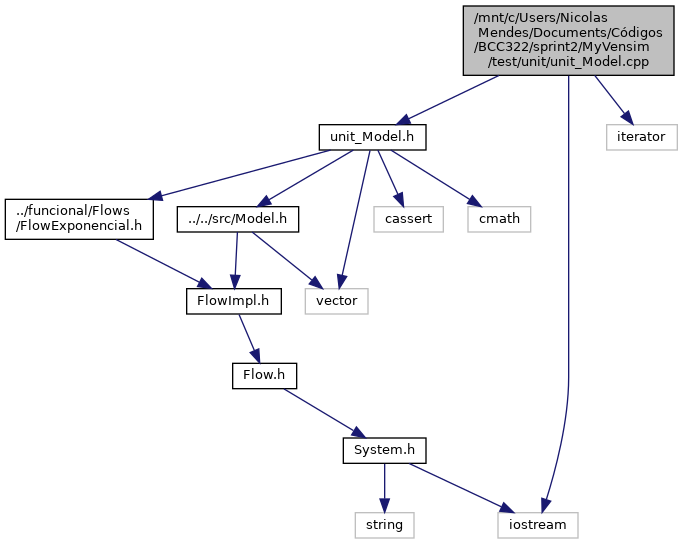
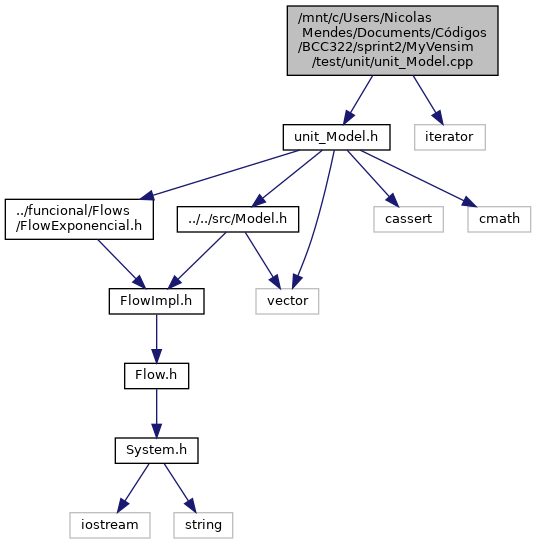
sprint 5 - fix unit_model .h

diff --git a/sprint2/MyVensim/doxygen/html/unit__Model_8h_source.html b/sprint2/MyVensim/doxygen/html/unit__Model_8h_source.html
@@ -102,30 +102,30 @@ $(function() {
 <div class="line"><a name="l00144"></a><span class="lineno">  144</span>&#160; </div>
 <div class="line"><a name="l00148"></a><span class="lineno">  148</span>&#160;<span class="keywordtype">void</span> <a class="code" href="unit__Model_8h.html#a2114674c26fbc871eec94221b3252a39">run_unit_test_Model</a>();</div>
 <div class="line"><a name="l00149"></a><span class="lineno">  149</span>&#160; </div>
-<div class="ttc" id="aunit__Model_8h_html_a0e9ac246464949279864e6af420214c8"><div class="ttname"><a href="unit__Model_8h.html#a0e9ac246464949279864e6af420214c8">unit_Model_beginSystems</a></div><div class="ttdeci">void unit_Model_beginSystems()</div><div class="ttdoc">Unit test for the beginSystems function of ModelImpl.</div><div class="ttdef"><b>Definition:</b> unit_Model.cpp:137</div></div>
-<div class="ttc" id="aunit__Model_8h_html_a1524ea94351f1b22d8f7b78e29cd35e5"><div class="ttname"><a href="unit__Model_8h.html#a1524ea94351f1b22d8f7b78e29cd35e5">unit_Model_parameter_constructor</a></div><div class="ttdeci">void unit_Model_parameter_constructor()</div><div class="ttdoc">Unit test for the parameterized constructor of ModelImpl.</div><div class="ttdef"><b>Definition:</b> unit_Model.cpp:17</div></div>
-<div class="ttc" id="aunit__Model_8h_html_a198776a1fac9ea701215f46608b9cc0e"><div class="ttname"><a href="unit__Model_8h.html#a198776a1fac9ea701215f46608b9cc0e">unit_Model_endModels</a></div><div class="ttdeci">void unit_Model_endModels()</div><div class="ttdoc">Unit test for ModelImpl::endModels()</div><div class="ttdef"><b>Definition:</b> unit_Model.cpp:216</div></div>
-<div class="ttc" id="aunit__Model_8h_html_a2114674c26fbc871eec94221b3252a39"><div class="ttname"><a href="unit__Model_8h.html#a2114674c26fbc871eec94221b3252a39">run_unit_test_Model</a></div><div class="ttdeci">void run_unit_test_Model()</div><div class="ttdoc">Run all unit tests.</div><div class="ttdef"><b>Definition:</b> unit_Model.cpp:269</div></div>
-<div class="ttc" id="aunit__Model_8h_html_a2679f573ec19210d2143c5f0275ba0ae"><div class="ttname"><a href="unit__Model_8h.html#a2679f573ec19210d2143c5f0275ba0ae">unit_Model_beginModels</a></div><div class="ttdeci">void unit_Model_beginModels()</div><div class="ttdoc">Unit test for ModelImpl::beginModels()</div><div class="ttdef"><b>Definition:</b> unit_Model.cpp:204</div></div>
-<div class="ttc" id="aunit__Model_8h_html_a313719ad23caf6695516a1cdcce2369a"><div class="ttname"><a href="unit__Model_8h.html#a313719ad23caf6695516a1cdcce2369a">unit_Model_beginFlows</a></div><div class="ttdeci">void unit_Model_beginFlows()</div><div class="ttdoc">Unit test for the beginFlows function of ModelImpl.</div><div class="ttdef"><b>Definition:</b> unit_Model.cpp:109</div></div>
-<div class="ttc" id="aunit__Model_8h_html_a37286918320acd70d56642498fa32c18"><div class="ttname"><a href="unit__Model_8h.html#a37286918320acd70d56642498fa32c18">unit_Model_run</a></div><div class="ttdeci">void unit_Model_run()</div><div class="ttdoc">Unit test for the run function of ModelImpl.</div><div class="ttdef"><b>Definition:</b> unit_Model.cpp:165</div></div>
-<div class="ttc" id="aunit__Model_8h_html_a3e18033ba5152db576eeccd0eebafd20"><div class="ttname"><a href="unit__Model_8h.html#a3e18033ba5152db576eeccd0eebafd20">unit_Model_setName</a></div><div class="ttdeci">void unit_Model_setName()</div><div class="ttdoc">Unit test for the setName function of ModelImpl.</div><div class="ttdef"><b>Definition:</b> unit_Model.cpp:82</div></div>
-<div class="ttc" id="aunit__Model_8h_html_a4538fa3ccde8f5b3e1006f9a1b6db177"><div class="ttname"><a href="unit__Model_8h.html#a4538fa3ccde8f5b3e1006f9a1b6db177">unit_Model_endFlows</a></div><div class="ttdeci">void unit_Model_endFlows()</div><div class="ttdoc">Unit test for the endFlows function of ModelImpl.</div><div class="ttdef"><b>Definition:</b> unit_Model.cpp:123</div></div>
-<div class="ttc" id="aunit__Model_8h_html_a5fc81d7bb4d5cc5937fb70f06b59c58e"><div class="ttname"><a href="unit__Model_8h.html#a5fc81d7bb4d5cc5937fb70f06b59c58e">unit_Model_operator_equal</a></div><div class="ttdeci">void unit_Model_operator_equal()</div><div class="ttdoc">Verifies the operator= function of ModelImpl.</div><div class="ttdef"><b>Definition:</b> unit_Model.cpp:99</div></div>
-<div class="ttc" id="aunit__Model_8h_html_a723ceb63472e35da820ad556d67a5c7a"><div class="ttname"><a href="unit__Model_8h.html#a723ceb63472e35da820ad556d67a5c7a">unit_Model_createModel_Impl</a></div><div class="ttdeci">void unit_Model_createModel_Impl()</div><div class="ttdoc">Unit test for ModelImpl::createModel()</div><div class="ttdef"><b>Definition:</b> unit_Model.cpp:234</div></div>
-<div class="ttc" id="aunit__Model_8h_html_a7760b8956819b3f28c08ca230a7e7aad"><div class="ttname"><a href="unit__Model_8h.html#a7760b8956819b3f28c08ca230a7e7aad">unit_Model_default_constructor</a></div><div class="ttdeci">void unit_Model_default_constructor()</div><div class="ttdoc">Unit test for the default constructor of ModelImpl.</div><div class="ttdef"><b>Definition:</b> unit_Model.cpp:9</div></div>
-<div class="ttc" id="aunit__Model_8h_html_a785d25c1ff90eb91fef77944d01e3db3"><div class="ttname"><a href="unit__Model_8h.html#a785d25c1ff90eb91fef77944d01e3db3">unit_Model_getFlows</a></div><div class="ttdeci">void unit_Model_getFlows()</div><div class="ttdoc">Unit test for the getFlows function of ModelImpl.</div><div class="ttdef"><b>Definition:</b> unit_Model.cpp:177</div></div>
-<div class="ttc" id="aunit__Model_8h_html_a88d0b5198399c11b8634906fb753d72c"><div class="ttname"><a href="unit__Model_8h.html#a88d0b5198399c11b8634906fb753d72c">unit_Model_remove_flow</a></div><div class="ttdeci">void unit_Model_remove_flow()</div><div class="ttdoc">Unit test for the remove flow function of ModelImpl.</div><div class="ttdef"><b>Definition:</b> unit_Model.cpp:66</div></div>
-<div class="ttc" id="aunit__Model_8h_html_a8f2fbe208d27d82cca5bbd8f5e972132"><div class="ttname"><a href="unit__Model_8h.html#a8f2fbe208d27d82cca5bbd8f5e972132">unit_Model_full_constructor</a></div><div class="ttdeci">void unit_Model_full_constructor()</div><div class="ttdoc">Unit test for the full constructor of ModelImpl.</div><div class="ttdef"><b>Definition:</b> unit_Model.cpp:26</div></div>
-<div class="ttc" id="aunit__Model_8h_html_a91ccff8e2ec46bc1fa4d1fe9ed79cd0d"><div class="ttname"><a href="unit__Model_8h.html#a91ccff8e2ec46bc1fa4d1fe9ed79cd0d">unit_Model_endSystems</a></div><div class="ttdeci">void unit_Model_endSystems()</div><div class="ttdoc">Unit test for the endSystems function of ModelImpl.</div><div class="ttdef"><b>Definition:</b> unit_Model.cpp:151</div></div>
-<div class="ttc" id="aunit__Model_8h_html_abb49fbd77462625039c6d5ec4a8c7667"><div class="ttname"><a href="unit__Model_8h.html#abb49fbd77462625039c6d5ec4a8c7667">unit_Model_createModel</a></div><div class="ttdeci">void unit_Model_createModel()</div><div class="ttdoc">Unit test for Model::createModel()</div><div class="ttdef"><b>Definition:</b> unit_Model.cpp:227</div></div>
-<div class="ttc" id="aunit__Model_8h_html_ad658cd033e2e5f340c2cea57614b5566"><div class="ttname"><a href="unit__Model_8h.html#ad658cd033e2e5f340c2cea57614b5566">unit_Model_remove_system</a></div><div class="ttdeci">void unit_Model_remove_system()</div><div class="ttdoc">Unit test for the remove system function of ModelImpl.</div><div class="ttdef"><b>Definition:</b> unit_Model.cpp:49</div></div>
-<div class="ttc" id="aunit__Model_8h_html_ad7e193f7cf3494b4a68ebf9c62b02c4d"><div class="ttname"><a href="unit__Model_8h.html#ad7e193f7cf3494b4a68ebf9c62b02c4d">unit_Model_setSource</a></div><div class="ttdeci">void unit_Model_setSource()</div><div class="ttdoc">Unit test for ModelImpl::setSource()</div><div class="ttdef"><b>Definition:</b> unit_Model.cpp:251</div></div>
-<div class="ttc" id="aunit__Model_8h_html_ad8771238ee4566fc080eb131d72a16c1"><div class="ttname"><a href="unit__Model_8h.html#ad8771238ee4566fc080eb131d72a16c1">unit_Model_getSystems</a></div><div class="ttdeci">void unit_Model_getSystems()</div><div class="ttdoc">Unit test for the getSystems function of ModelImpl.</div><div class="ttdef"><b>Definition:</b> unit_Model.cpp:191</div></div>
-<div class="ttc" id="aunit__Model_8h_html_adc00b5a0ad5085f85564b39319ae6662"><div class="ttname"><a href="unit__Model_8h.html#adc00b5a0ad5085f85564b39319ae6662">unit_Model_destructor</a></div><div class="ttdeci">void unit_Model_destructor()</div><div class="ttdoc">Unit test for the destructor of ModelImpl.</div><div class="ttdef"><b>Definition:</b> unit_Model.cpp:39</div></div>
-<div class="ttc" id="aunit__Model_8h_html_ae4af6259f0c230666091589c7e5692a0"><div class="ttname"><a href="unit__Model_8h.html#ae4af6259f0c230666091589c7e5692a0">unit_Model_getName</a></div><div class="ttdeci">void unit_Model_getName()</div><div class="ttdoc">Unit test for the getName function of ModelImpl.</div><div class="ttdef"><b>Definition:</b> unit_Model.cpp:90</div></div>
-<div class="ttc" id="aunit__Model_8h_html_af1860c0004f2ef09cbc14cf1e904fe0d"><div class="ttname"><a href="unit__Model_8h.html#af1860c0004f2ef09cbc14cf1e904fe0d">unit_Model_createSystem</a></div><div class="ttdeci">void unit_Model_createSystem()</div><div class="ttdoc">Unit test for ModelImpl::createSystem()</div><div class="ttdef"><b>Definition:</b> unit_Model.cpp:243</div></div>
-<div class="ttc" id="aunit__Model_8h_html_aff46f8c80b89b5f607f27da6642a4303"><div class="ttname"><a href="unit__Model_8h.html#aff46f8c80b89b5f607f27da6642a4303">unit_Model_setTarget</a></div><div class="ttdeci">void unit_Model_setTarget()</div><div class="ttdoc">Unit test for ModelImpl::setTarget()</div><div class="ttdef"><b>Definition:</b> unit_Model.cpp:260</div></div>
+<div class="ttc" id="aunit__Model_8h_html_a0e9ac246464949279864e6af420214c8"><div class="ttname"><a href="unit__Model_8h.html#a0e9ac246464949279864e6af420214c8">unit_Model_beginSystems</a></div><div class="ttdeci">void unit_Model_beginSystems()</div><div class="ttdoc">Unit test for the beginSystems function of ModelImpl.</div><div class="ttdef"><b>Definition:</b> unit_Model.cpp:136</div></div>
+<div class="ttc" id="aunit__Model_8h_html_a1524ea94351f1b22d8f7b78e29cd35e5"><div class="ttname"><a href="unit__Model_8h.html#a1524ea94351f1b22d8f7b78e29cd35e5">unit_Model_parameter_constructor</a></div><div class="ttdeci">void unit_Model_parameter_constructor()</div><div class="ttdoc">Unit test for the parameterized constructor of ModelImpl.</div><div class="ttdef"><b>Definition:</b> unit_Model.cpp:16</div></div>
+<div class="ttc" id="aunit__Model_8h_html_a198776a1fac9ea701215f46608b9cc0e"><div class="ttname"><a href="unit__Model_8h.html#a198776a1fac9ea701215f46608b9cc0e">unit_Model_endModels</a></div><div class="ttdeci">void unit_Model_endModels()</div><div class="ttdoc">Unit test for ModelImpl::endModels()</div><div class="ttdef"><b>Definition:</b> unit_Model.cpp:215</div></div>
+<div class="ttc" id="aunit__Model_8h_html_a2114674c26fbc871eec94221b3252a39"><div class="ttname"><a href="unit__Model_8h.html#a2114674c26fbc871eec94221b3252a39">run_unit_test_Model</a></div><div class="ttdeci">void run_unit_test_Model()</div><div class="ttdoc">Run all unit tests.</div><div class="ttdef"><b>Definition:</b> unit_Model.cpp:268</div></div>
+<div class="ttc" id="aunit__Model_8h_html_a2679f573ec19210d2143c5f0275ba0ae"><div class="ttname"><a href="unit__Model_8h.html#a2679f573ec19210d2143c5f0275ba0ae">unit_Model_beginModels</a></div><div class="ttdeci">void unit_Model_beginModels()</div><div class="ttdoc">Unit test for ModelImpl::beginModels()</div><div class="ttdef"><b>Definition:</b> unit_Model.cpp:203</div></div>
+<div class="ttc" id="aunit__Model_8h_html_a313719ad23caf6695516a1cdcce2369a"><div class="ttname"><a href="unit__Model_8h.html#a313719ad23caf6695516a1cdcce2369a">unit_Model_beginFlows</a></div><div class="ttdeci">void unit_Model_beginFlows()</div><div class="ttdoc">Unit test for the beginFlows function of ModelImpl.</div><div class="ttdef"><b>Definition:</b> unit_Model.cpp:108</div></div>
+<div class="ttc" id="aunit__Model_8h_html_a37286918320acd70d56642498fa32c18"><div class="ttname"><a href="unit__Model_8h.html#a37286918320acd70d56642498fa32c18">unit_Model_run</a></div><div class="ttdeci">void unit_Model_run()</div><div class="ttdoc">Unit test for the run function of ModelImpl.</div><div class="ttdef"><b>Definition:</b> unit_Model.cpp:164</div></div>
+<div class="ttc" id="aunit__Model_8h_html_a3e18033ba5152db576eeccd0eebafd20"><div class="ttname"><a href="unit__Model_8h.html#a3e18033ba5152db576eeccd0eebafd20">unit_Model_setName</a></div><div class="ttdeci">void unit_Model_setName()</div><div class="ttdoc">Unit test for the setName function of ModelImpl.</div><div class="ttdef"><b>Definition:</b> unit_Model.cpp:81</div></div>
+<div class="ttc" id="aunit__Model_8h_html_a4538fa3ccde8f5b3e1006f9a1b6db177"><div class="ttname"><a href="unit__Model_8h.html#a4538fa3ccde8f5b3e1006f9a1b6db177">unit_Model_endFlows</a></div><div class="ttdeci">void unit_Model_endFlows()</div><div class="ttdoc">Unit test for the endFlows function of ModelImpl.</div><div class="ttdef"><b>Definition:</b> unit_Model.cpp:122</div></div>
+<div class="ttc" id="aunit__Model_8h_html_a5fc81d7bb4d5cc5937fb70f06b59c58e"><div class="ttname"><a href="unit__Model_8h.html#a5fc81d7bb4d5cc5937fb70f06b59c58e">unit_Model_operator_equal</a></div><div class="ttdeci">void unit_Model_operator_equal()</div><div class="ttdoc">Verifies the operator= function of ModelImpl.</div><div class="ttdef"><b>Definition:</b> unit_Model.cpp:98</div></div>
+<div class="ttc" id="aunit__Model_8h_html_a723ceb63472e35da820ad556d67a5c7a"><div class="ttname"><a href="unit__Model_8h.html#a723ceb63472e35da820ad556d67a5c7a">unit_Model_createModel_Impl</a></div><div class="ttdeci">void unit_Model_createModel_Impl()</div><div class="ttdoc">Unit test for ModelImpl::createModel()</div><div class="ttdef"><b>Definition:</b> unit_Model.cpp:233</div></div>
+<div class="ttc" id="aunit__Model_8h_html_a7760b8956819b3f28c08ca230a7e7aad"><div class="ttname"><a href="unit__Model_8h.html#a7760b8956819b3f28c08ca230a7e7aad">unit_Model_default_constructor</a></div><div class="ttdeci">void unit_Model_default_constructor()</div><div class="ttdoc">Unit test for the default constructor of ModelImpl.</div><div class="ttdef"><b>Definition:</b> unit_Model.cpp:8</div></div>
+<div class="ttc" id="aunit__Model_8h_html_a785d25c1ff90eb91fef77944d01e3db3"><div class="ttname"><a href="unit__Model_8h.html#a785d25c1ff90eb91fef77944d01e3db3">unit_Model_getFlows</a></div><div class="ttdeci">void unit_Model_getFlows()</div><div class="ttdoc">Unit test for the getFlows function of ModelImpl.</div><div class="ttdef"><b>Definition:</b> unit_Model.cpp:176</div></div>
+<div class="ttc" id="aunit__Model_8h_html_a88d0b5198399c11b8634906fb753d72c"><div class="ttname"><a href="unit__Model_8h.html#a88d0b5198399c11b8634906fb753d72c">unit_Model_remove_flow</a></div><div class="ttdeci">void unit_Model_remove_flow()</div><div class="ttdoc">Unit test for the remove flow function of ModelImpl.</div><div class="ttdef"><b>Definition:</b> unit_Model.cpp:65</div></div>
+<div class="ttc" id="aunit__Model_8h_html_a8f2fbe208d27d82cca5bbd8f5e972132"><div class="ttname"><a href="unit__Model_8h.html#a8f2fbe208d27d82cca5bbd8f5e972132">unit_Model_full_constructor</a></div><div class="ttdeci">void unit_Model_full_constructor()</div><div class="ttdoc">Unit test for the full constructor of ModelImpl.</div><div class="ttdef"><b>Definition:</b> unit_Model.cpp:25</div></div>
+<div class="ttc" id="aunit__Model_8h_html_a91ccff8e2ec46bc1fa4d1fe9ed79cd0d"><div class="ttname"><a href="unit__Model_8h.html#a91ccff8e2ec46bc1fa4d1fe9ed79cd0d">unit_Model_endSystems</a></div><div class="ttdeci">void unit_Model_endSystems()</div><div class="ttdoc">Unit test for the endSystems function of ModelImpl.</div><div class="ttdef"><b>Definition:</b> unit_Model.cpp:150</div></div>
+<div class="ttc" id="aunit__Model_8h_html_abb49fbd77462625039c6d5ec4a8c7667"><div class="ttname"><a href="unit__Model_8h.html#abb49fbd77462625039c6d5ec4a8c7667">unit_Model_createModel</a></div><div class="ttdeci">void unit_Model_createModel()</div><div class="ttdoc">Unit test for Model::createModel()</div><div class="ttdef"><b>Definition:</b> unit_Model.cpp:226</div></div>
+<div class="ttc" id="aunit__Model_8h_html_ad658cd033e2e5f340c2cea57614b5566"><div class="ttname"><a href="unit__Model_8h.html#ad658cd033e2e5f340c2cea57614b5566">unit_Model_remove_system</a></div><div class="ttdeci">void unit_Model_remove_system()</div><div class="ttdoc">Unit test for the remove system function of ModelImpl.</div><div class="ttdef"><b>Definition:</b> unit_Model.cpp:48</div></div>
+<div class="ttc" id="aunit__Model_8h_html_ad7e193f7cf3494b4a68ebf9c62b02c4d"><div class="ttname"><a href="unit__Model_8h.html#ad7e193f7cf3494b4a68ebf9c62b02c4d">unit_Model_setSource</a></div><div class="ttdeci">void unit_Model_setSource()</div><div class="ttdoc">Unit test for ModelImpl::setSource()</div><div class="ttdef"><b>Definition:</b> unit_Model.cpp:250</div></div>
+<div class="ttc" id="aunit__Model_8h_html_ad8771238ee4566fc080eb131d72a16c1"><div class="ttname"><a href="unit__Model_8h.html#ad8771238ee4566fc080eb131d72a16c1">unit_Model_getSystems</a></div><div class="ttdeci">void unit_Model_getSystems()</div><div class="ttdoc">Unit test for the getSystems function of ModelImpl.</div><div class="ttdef"><b>Definition:</b> unit_Model.cpp:190</div></div>
+<div class="ttc" id="aunit__Model_8h_html_adc00b5a0ad5085f85564b39319ae6662"><div class="ttname"><a href="unit__Model_8h.html#adc00b5a0ad5085f85564b39319ae6662">unit_Model_destructor</a></div><div class="ttdeci">void unit_Model_destructor()</div><div class="ttdoc">Unit test for the destructor of ModelImpl.</div><div class="ttdef"><b>Definition:</b> unit_Model.cpp:38</div></div>
+<div class="ttc" id="aunit__Model_8h_html_ae4af6259f0c230666091589c7e5692a0"><div class="ttname"><a href="unit__Model_8h.html#ae4af6259f0c230666091589c7e5692a0">unit_Model_getName</a></div><div class="ttdeci">void unit_Model_getName()</div><div class="ttdoc">Unit test for the getName function of ModelImpl.</div><div class="ttdef"><b>Definition:</b> unit_Model.cpp:89</div></div>
+<div class="ttc" id="aunit__Model_8h_html_af1860c0004f2ef09cbc14cf1e904fe0d"><div class="ttname"><a href="unit__Model_8h.html#af1860c0004f2ef09cbc14cf1e904fe0d">unit_Model_createSystem</a></div><div class="ttdeci">void unit_Model_createSystem()</div><div class="ttdoc">Unit test for ModelImpl::createSystem()</div><div class="ttdef"><b>Definition:</b> unit_Model.cpp:242</div></div>
+<div class="ttc" id="aunit__Model_8h_html_aff46f8c80b89b5f607f27da6642a4303"><div class="ttname"><a href="unit__Model_8h.html#aff46f8c80b89b5f607f27da6642a4303">unit_Model_setTarget</a></div><div class="ttdeci">void unit_Model_setTarget()</div><div class="ttdoc">Unit test for ModelImpl::setTarget()</div><div class="ttdef"><b>Definition:</b> unit_Model.cpp:259</div></div>
 </div><!-- fragment --></div><!-- contents -->
 <!-- start footer part -->
 <hr class="footer"/><address class="footer"><small>

diff --git a/sprint2/MyVensim/doxygen/html/ModelImpl_8h_source.html b/sprint2/MyVensim/doxygen/html/ModelImpl_8h_source.html
@@ -92,35 +92,35 @@ $(function() {
 <div class="line"><a name="l00044"></a><span class="lineno">   44</span>&#160;<span class="keyword">private</span>:</div>
 <div class="line"><a name="l00049"></a><span class="lineno">   49</span>&#160;    <a class="code" href="classModelImpl.html">ModelImpl</a>(<span class="keyword">const</span> <a class="code" href="classModelImpl.html">ModelImpl</a> &amp;m);</div>
 <div class="line"><a name="l00055"></a><span class="lineno">   55</span>&#160;    <a class="code" href="classModelImpl.html">ModelImpl</a> &amp;operator=(<span class="keyword">const</span> <a class="code" href="classModelImpl.html">ModelImpl</a> &amp;m);</div>
-<div class="line"><a name="l00056"></a><span class="lineno">   56</span>&#160;    <span class="keyword">virtual</span> <span class="keywordtype">bool</span> add(<a class="code" href="classSystem.html">System</a> *s);</div>
-<div class="line"><a name="l00062"></a><span class="lineno">   62</span>&#160;    <span class="keyword">virtual</span> <span class="keywordtype">bool</span> add(<a class="code" href="classFlow.html">Flow</a> *f);</div>
-<div class="line"><a name="l00068"></a><span class="lineno">   68</span>&#160;    <span class="keyword">static</span> <span class="keywordtype">bool</span> add(<a class="code" href="classModel.html">Model</a> *m);</div>
-<div class="line"><a name="l00069"></a><span class="lineno">   69</span>&#160; </div>
-<div class="line"><a name="l00070"></a><span class="lineno">   70</span>&#160;<span class="keyword">public</span>:</div>
-<div class="line"><a name="l00074"></a><span class="lineno">   74</span>&#160;    <span class="keyword">virtual</span> ~<a class="code" href="classModelImpl.html">ModelImpl</a>();</div>
-<div class="line"><a name="l00075"></a><span class="lineno">   75</span>&#160; </div>
-<div class="line"><a name="l00087"></a><span class="lineno">   87</span>&#160;    <span class="keyword">virtual</span> <span class="keywordtype">bool</span> remove(<a class="code" href="classSystem.html">System</a> *s);</div>
-<div class="line"><a name="l00093"></a><span class="lineno">   93</span>&#160;    <span class="keyword">virtual</span> <span class="keywordtype">bool</span> remove(<a class="code" href="classFlow.html">Flow</a> *f);</div>
-<div class="line"><a name="l00100"></a><span class="lineno">  100</span>&#160;    <span class="keyword">virtual</span> <span class="keywordtype">double</span> run(<span class="keyword">const</span> <span class="keywordtype">double</span> &amp;t_initial, <span class="keyword">const</span> <span class="keywordtype">double</span> &amp;t_final);</div>
-<div class="line"><a name="l00101"></a><span class="lineno">  101</span>&#160; </div>
-<div class="line"><a name="l00107"></a><span class="lineno">  107</span>&#160;    <span class="keyword">virtual</span> <span class="keywordtype">bool</span> setName(<span class="keyword">const</span> <span class="keywordtype">string</span> &amp;n);</div>
-<div class="line"><a name="l00112"></a><span class="lineno">  112</span>&#160;    <span class="keyword">virtual</span> <span class="keywordtype">string</span> getName() <span class="keyword">const</span>;</div>
-<div class="line"><a name="l00117"></a><span class="lineno">  117</span>&#160;    <span class="keyword">virtual</span> <a class="code" href="classModel.html#a251f91d5bad724044aa7d574064c1aba">SystemsIterator</a> getSystems();</div>
-<div class="line"><a name="l00122"></a><span class="lineno">  122</span>&#160;    <span class="keyword">virtual</span> <a class="code" href="classModel.html#aa635fd7f66df482dfea1d6e61207c8a1">FlowsIterator</a> getFlows();</div>
-<div class="line"><a name="l00128"></a><span class="lineno">  128</span>&#160;    <span class="keywordtype">bool</span> operator==(<span class="keyword">const</span> <a class="code" href="classModelImpl.html">ModelImpl</a> &amp;m) <span class="keyword">const</span>;</div>
-<div class="line"><a name="l00129"></a><span class="lineno">  129</span>&#160; </div>
-<div class="line"><a name="l00134"></a><span class="lineno">  134</span>&#160;    <span class="keyword">virtual</span> <a class="code" href="classModel.html#aa635fd7f66df482dfea1d6e61207c8a1">FlowsIterator</a> beginFlows();</div>
-<div class="line"><a name="l00139"></a><span class="lineno">  139</span>&#160;    <span class="keyword">virtual</span> <a class="code" href="classModel.html#aa635fd7f66df482dfea1d6e61207c8a1">FlowsIterator</a> endFlows();</div>
-<div class="line"><a name="l00144"></a><span class="lineno">  144</span>&#160;    <span class="keyword">virtual</span> <a class="code" href="classModel.html#a251f91d5bad724044aa7d574064c1aba">SystemsIterator</a> beginSystems();</div>
-<div class="line"><a name="l00149"></a><span class="lineno">  149</span>&#160;    <span class="keyword">virtual</span> <a class="code" href="classModel.html#a251f91d5bad724044aa7d574064c1aba">SystemsIterator</a> endSystems();</div>
-<div class="line"><a name="l00154"></a><span class="lineno">  154</span>&#160;    <span class="keyword">virtual</span> <a class="code" href="classModel.html#ae62cf1024b4d3e76cff7548064c6acc8">ModelsIterator</a> beginModels();</div>
-<div class="line"><a name="l00159"></a><span class="lineno">  159</span>&#160;    <span class="keyword">virtual</span> <a class="code" href="classModel.html#ae62cf1024b4d3e76cff7548064c6acc8">ModelsIterator</a> endModels();</div>
-<div class="line"><a name="l00165"></a><span class="lineno">  165</span>&#160;    <span class="keyword">static</span> <a class="code" href="classModel.html">Model</a> *createModel(<span class="keyword">const</span> <span class="keywordtype">string</span> &amp;n);</div>
-<div class="line"><a name="l00171"></a><span class="lineno">  171</span>&#160;    <span class="keyword">static</span> <a class="code" href="classModel.html">Model</a> *createModel();</div>
-<div class="line"><a name="l00178"></a><span class="lineno">  178</span>&#160;    <span class="keyword">virtual</span> <a class="code" href="classSystem.html">System</a> *createSystem(<span class="keyword">const</span> <span class="keywordtype">string</span> &amp;n, <span class="keyword">const</span> <span class="keywordtype">double</span> &amp;v);</div>
-<div class="line"><a name="l00185"></a><span class="lineno">  185</span>&#160;    <span class="keyword">virtual</span> <span class="keywordtype">bool</span> setSource(<a class="code" href="classFlow.html">Flow</a> *f, <a class="code" href="classSystem.html">System</a> *s);</div>
-<div class="line"><a name="l00192"></a><span class="lineno">  192</span>&#160;    <span class="keyword">virtual</span> <span class="keywordtype">bool</span> setTarget(<a class="code" href="classFlow.html">Flow</a> *f, <a class="code" href="classSystem.html">System</a> *s);</div>
-<div class="line"><a name="l00193"></a><span class="lineno">  193</span>&#160;};</div>
+<div class="line"><a name="l00061"></a><span class="lineno">   61</span>&#160;    <span class="keyword">virtual</span> <span class="keywordtype">bool</span> add(<a class="code" href="classSystem.html">System</a> *s);</div>
+<div class="line"><a name="l00067"></a><span class="lineno">   67</span>&#160;    <span class="keyword">virtual</span> <span class="keywordtype">bool</span> add(<a class="code" href="classFlow.html">Flow</a> *f);</div>
+<div class="line"><a name="l00073"></a><span class="lineno">   73</span>&#160;    <span class="keyword">static</span> <span class="keywordtype">bool</span> add(<a class="code" href="classModel.html">Model</a> *m);</div>
+<div class="line"><a name="l00074"></a><span class="lineno">   74</span>&#160; </div>
+<div class="line"><a name="l00075"></a><span class="lineno">   75</span>&#160;<span class="keyword">public</span>:</div>
+<div class="line"><a name="l00079"></a><span class="lineno">   79</span>&#160;    <span class="keyword">virtual</span> ~<a class="code" href="classModelImpl.html">ModelImpl</a>();</div>
+<div class="line"><a name="l00080"></a><span class="lineno">   80</span>&#160; </div>
+<div class="line"><a name="l00086"></a><span class="lineno">   86</span>&#160;    <span class="keyword">virtual</span> <span class="keywordtype">bool</span> remove(<a class="code" href="classSystem.html">System</a> *s);</div>
+<div class="line"><a name="l00092"></a><span class="lineno">   92</span>&#160;    <span class="keyword">virtual</span> <span class="keywordtype">bool</span> remove(<a class="code" href="classFlow.html">Flow</a> *f);</div>
+<div class="line"><a name="l00099"></a><span class="lineno">   99</span>&#160;    <span class="keyword">virtual</span> <span class="keywordtype">double</span> run(<span class="keyword">const</span> <span class="keywordtype">double</span> &amp;t_initial, <span class="keyword">const</span> <span class="keywordtype">double</span> &amp;t_final);</div>
+<div class="line"><a name="l00100"></a><span class="lineno">  100</span>&#160; </div>
+<div class="line"><a name="l00106"></a><span class="lineno">  106</span>&#160;    <span class="keyword">virtual</span> <span class="keywordtype">bool</span> setName(<span class="keyword">const</span> <span class="keywordtype">string</span> &amp;n);</div>
+<div class="line"><a name="l00111"></a><span class="lineno">  111</span>&#160;    <span class="keyword">virtual</span> <span class="keywordtype">string</span> getName() <span class="keyword">const</span>;</div>
+<div class="line"><a name="l00116"></a><span class="lineno">  116</span>&#160;    <span class="keyword">virtual</span> <a class="code" href="classModel.html#a251f91d5bad724044aa7d574064c1aba">SystemsIterator</a> getSystems();</div>
+<div class="line"><a name="l00121"></a><span class="lineno">  121</span>&#160;    <span class="keyword">virtual</span> <a class="code" href="classModel.html#aa635fd7f66df482dfea1d6e61207c8a1">FlowsIterator</a> getFlows();</div>
+<div class="line"><a name="l00127"></a><span class="lineno">  127</span>&#160;    <span class="keywordtype">bool</span> operator==(<span class="keyword">const</span> <a class="code" href="classModelImpl.html">ModelImpl</a> &amp;m) <span class="keyword">const</span>;</div>
+<div class="line"><a name="l00128"></a><span class="lineno">  128</span>&#160; </div>
+<div class="line"><a name="l00133"></a><span class="lineno">  133</span>&#160;    <span class="keyword">virtual</span> <a class="code" href="classModel.html#aa635fd7f66df482dfea1d6e61207c8a1">FlowsIterator</a> beginFlows();</div>
+<div class="line"><a name="l00138"></a><span class="lineno">  138</span>&#160;    <span class="keyword">virtual</span> <a class="code" href="classModel.html#aa635fd7f66df482dfea1d6e61207c8a1">FlowsIterator</a> endFlows();</div>
+<div class="line"><a name="l00143"></a><span class="lineno">  143</span>&#160;    <span class="keyword">virtual</span> <a class="code" href="classModel.html#a251f91d5bad724044aa7d574064c1aba">SystemsIterator</a> beginSystems();</div>
+<div class="line"><a name="l00148"></a><span class="lineno">  148</span>&#160;    <span class="keyword">virtual</span> <a class="code" href="classModel.html#a251f91d5bad724044aa7d574064c1aba">SystemsIterator</a> endSystems();</div>
+<div class="line"><a name="l00153"></a><span class="lineno">  153</span>&#160;    <span class="keyword">virtual</span> <a class="code" href="classModel.html#ae62cf1024b4d3e76cff7548064c6acc8">ModelsIterator</a> beginModels();</div>
+<div class="line"><a name="l00158"></a><span class="lineno">  158</span>&#160;    <span class="keyword">virtual</span> <a class="code" href="classModel.html#ae62cf1024b4d3e76cff7548064c6acc8">ModelsIterator</a> endModels();</div>
+<div class="line"><a name="l00164"></a><span class="lineno">  164</span>&#160;    <span class="keyword">static</span> <a class="code" href="classModel.html">Model</a> *createModel(<span class="keyword">const</span> <span class="keywordtype">string</span> &amp;n);</div>
+<div class="line"><a name="l00170"></a><span class="lineno">  170</span>&#160;    <span class="keyword">static</span> <a class="code" href="classModel.html">Model</a> *createModel();</div>
+<div class="line"><a name="l00177"></a><span class="lineno">  177</span>&#160;    <span class="keyword">virtual</span> <a class="code" href="classSystem.html">System</a> *createSystem(<span class="keyword">const</span> <span class="keywordtype">string</span> &amp;n, <span class="keyword">const</span> <span class="keywordtype">double</span> &amp;v);</div>
+<div class="line"><a name="l00184"></a><span class="lineno">  184</span>&#160;    <span class="keyword">virtual</span> <span class="keywordtype">bool</span> setSource(<a class="code" href="classFlow.html">Flow</a> *f, <a class="code" href="classSystem.html">System</a> *s);</div>
+<div class="line"><a name="l00191"></a><span class="lineno">  191</span>&#160;    <span class="keyword">virtual</span> <span class="keywordtype">bool</span> setTarget(<a class="code" href="classFlow.html">Flow</a> *f, <a class="code" href="classSystem.html">System</a> *s);</div>
+<div class="line"><a name="l00192"></a><span class="lineno">  192</span>&#160;};</div>
 <div class="ttc" id="aModel_8h_html"><div class="ttname"><a href="Model_8h.html">Model.h</a></div><div class="ttdoc">Model Interface class header file.</div></div>
 <div class="ttc" id="aSystemImpl_8h_html"><div class="ttname"><a href="SystemImpl_8h.html">SystemImpl.h</a></div><div class="ttdoc">SystemImpl class header file.</div></div>
 <div class="ttc" id="aclassFlow_html"><div class="ttname"><a href="classFlow.html">Flow</a></div><div class="ttdoc">Interface that represents a Flow in the simulator of systems theory.</div><div class="ttdef"><b>Definition:</b> Flow.h:17</div></div>

diff --git a/sprint2/MyVensim/doxygen/html/classModelImpl.html b/sprint2/MyVensim/doxygen/html/classModelImpl.html
@@ -129,7 +129,7 @@ Public Member Functions</h2></td></tr>
 <tr class="memdesc:a427f422a6d356b94afbe3937d6452a2b"><td class="mdescLeft">&#160;</td><td class="mdescRight">virtual class destructor  <a href="classModelImpl.html#a427f422a6d356b94afbe3937d6452a2b">More...</a><br /></td></tr>
 <tr class="separator:a427f422a6d356b94afbe3937d6452a2b"><td class="memSeparator" colspan="2">&#160;</td></tr>
 <tr class="memitem:a5145a5ed6c8cb204137fc161d94bb9e4"><td class="memItemLeft" align="right" valign="top">virtual bool&#160;</td><td class="memItemRight" valign="bottom"><a class="el" href="classModelImpl.html#a5145a5ed6c8cb204137fc161d94bb9e4">remove</a> (<a class="el" href="classSystem.html">System</a> *s)</td></tr>
-<tr class="memdesc:a5145a5ed6c8cb204137fc161d94bb9e4"><td class="mdescLeft">&#160;</td><td class="mdescRight">add a <a class="el" href="classSystem.html" title="Interface that represents a System in the simulator of systems theory.">System</a> to the <a class="el" href="classModel.html" title="Interface that represents a Flow in the simulator of systems theory.">Model</a>  <a href="classModelImpl.html#a5145a5ed6c8cb204137fc161d94bb9e4">More...</a><br /></td></tr>
+<tr class="memdesc:a5145a5ed6c8cb204137fc161d94bb9e4"><td class="mdescLeft">&#160;</td><td class="mdescRight">remove a <a class="el" href="classSystem.html" title="Interface that represents a System in the simulator of systems theory.">System</a> from the <a class="el" href="classModel.html" title="Interface that represents a Flow in the simulator of systems theory.">Model</a>  <a href="classModelImpl.html#a5145a5ed6c8cb204137fc161d94bb9e4">More...</a><br /></td></tr>
 <tr class="separator:a5145a5ed6c8cb204137fc161d94bb9e4"><td class="memSeparator" colspan="2">&#160;</td></tr>
 <tr class="memitem:a91ecf96ee8a524711c34a5291e799470"><td class="memItemLeft" align="right" valign="top">virtual bool&#160;</td><td class="memItemRight" valign="bottom"><a class="el" href="classModelImpl.html#a91ecf96ee8a524711c34a5291e799470">remove</a> (<a class="el" href="classFlow.html">Flow</a> *f)</td></tr>
 <tr class="memdesc:a91ecf96ee8a524711c34a5291e799470"><td class="mdescLeft">&#160;</td><td class="mdescRight">remove a <a class="el" href="classFlow.html" title="Interface that represents a Flow in the simulator of systems theory.">Flow</a> from the <a class="el" href="classModel.html" title="Interface that represents a Flow in the simulator of systems theory.">Model</a>  <a href="classModelImpl.html#a91ecf96ee8a524711c34a5291e799470">More...</a><br /></td></tr>
@@ -859,15 +859,8 @@ Here is the caller graph for this function:</div>
 </table>
 </div><div class="memdoc">
 
-<p>add a <a class="el" href="classSystem.html" title="Interface that represents a System in the simulator of systems theory.">System</a> to the <a class="el" href="classModel.html" title="Interface that represents a Flow in the simulator of systems theory.">Model</a> </p>
+<p>remove a <a class="el" href="classSystem.html" title="Interface that represents a System in the simulator of systems theory.">System</a> from the <a class="el" href="classModel.html" title="Interface that represents a Flow in the simulator of systems theory.">Model</a> </p>
 <dl class="params"><dt>Parameters</dt><dd>
-  <table class="params">
-    <tr><td class="paramname">s</td><td>a pointer to the <a class="el" href="classSystem.html" title="Interface that represents a System in the simulator of systems theory.">System</a> to be added </td></tr>
-  </table>
-  </dd>
-</dl>
-<dl class="section return"><dt>Returns</dt><dd>true if the <a class="el" href="classSystem.html" title="Interface that represents a System in the simulator of systems theory.">System</a> was successfully added, false otherwise</dd></dl>
-<p>remove a <a class="el" href="classSystem.html" title="Interface that represents a System in the simulator of systems theory.">System</a> from the <a class="el" href="classModel.html" title="Interface that represents a Flow in the simulator of systems theory.">Model</a> </p><dl class="params"><dt>Parameters</dt><dd>
   <table class="params">
     <tr><td class="paramname">s</td><td>a pointer to the <a class="el" href="classSystem.html" title="Interface that represents a System in the simulator of systems theory.">System</a> to be removed </td></tr>
   </table>

diff --git a/sprint2/MyVensim/doxygen/html/unit__Model_8cpp.html b/sprint2/MyVensim/doxygen/html/unit__Model_8cpp.html
@@ -73,26 +73,25 @@ $(function() {
 </div><!--header-->
 <div class="contents">
 <div class="textblock"><code>#include &quot;<a class="el" href="unit__Model_8h_source.html">unit_Model.h</a>&quot;</code><br />
-<code>#include &lt;iostream&gt;</code><br />
 <code>#include &lt;iterator&gt;</code><br />
 </div><div class="textblock"><div class="dynheader">
 Include dependency graph for unit_Model.cpp:</div>
 <div class="dyncontent">
 <div class="center"><img src="unit__Model_8cpp__incl.png" border="0" usemap="#a_2mnt_2c_2Users_2Nicolas_01Mendes_2Documents_2C_xC3_xB3digos_2BCC322_2sprint2_2MyVensim_2test_2unit_2unit__Model_8cpp" alt=""/></div>
 <map name="a_2mnt_2c_2Users_2Nicolas_01Mendes_2Documents_2C_xC3_xB3digos_2BCC322_2sprint2_2MyVensim_2test_2unit_2unit__Model_8cpp" id="a_2mnt_2c_2Users_2Nicolas_01Mendes_2Documents_2C_xC3_xB3digos_2BCC322_2sprint2_2MyVensim_2test_2unit_2unit__Model_8cpp">
-<area shape="rect" title=" " alt="" coords="463,5,674,76"/>
-<area shape="rect" href="unit__Model_8h.html" title="unit tests for Model class" alt="" coords="319,124,426,151"/>
-<area shape="rect" title=" " alt="" coords="498,512,578,539"/>
-<area shape="rect" title=" " alt="" coords="607,124,677,151"/>
+<area shape="rect" title=" " alt="" coords="287,5,498,76"/>
+<area shape="rect" href="unit__Model_8h.html" title="unit tests for Model class" alt="" coords="283,124,390,151"/>
+<area shape="rect" title=" " alt="" coords="415,124,485,151"/>
 <area shape="rect" href="Model_8h.html" title="Model Interface class header file." alt="" coords="177,206,299,233"/>
-<area shape="rect" title=" " alt="" coords="305,288,368,315"/>
+<area shape="rect" title=" " alt="" coords="256,288,319,315"/>
 <area shape="rect" href="FlowExponencial_8h.html" title="FlowExponencial class header file." alt="" coords="5,199,153,240"/>
 <area shape="rect" title=" " alt="" coords="374,206,443,233"/>
 <area shape="rect" title=" " alt="" coords="468,206,531,233"/>
-<area shape="rect" href="FlowImpl_8h.html" title="FlowImpl class header file." alt="" coords="187,288,281,315"/>
-<area shape="rect" href="Flow_8h.html" title="Flow Interface class header file." alt="" coords="233,363,297,389"/>
-<area shape="rect" href="System_8h.html" title="System interface class header file." alt="" coords="343,437,426,464"/>
-<area shape="rect" title=" " alt="" coords="355,512,414,539"/>
+<area shape="rect" href="FlowImpl_8h.html" title="FlowImpl class header file." alt="" coords="109,288,204,315"/>
+<area shape="rect" href="Flow_8h.html" title="Flow Interface class header file." alt="" coords="125,363,189,389"/>
+<area shape="rect" href="System_8h.html" title="System interface class header file." alt="" coords="115,437,198,464"/>
+<area shape="rect" title=" " alt="" coords="70,512,150,539"/>
+<area shape="rect" title=" " alt="" coords="174,512,233,539"/>
 </map>
 </div>
 </div><table class="memberdecls">

diff --git a/sprint2/MyVensim/test/unit/unit_Model.cpp b/sprint2/MyVensim/test/unit/unit_Model.cpp
@@ -1,5 +1,4 @@
 #include "unit_Model.h"
-#include <iostream>
 #include <iterator>
 using namespace std;
 typedef vector<System *>::iterator SystemsIterator;
